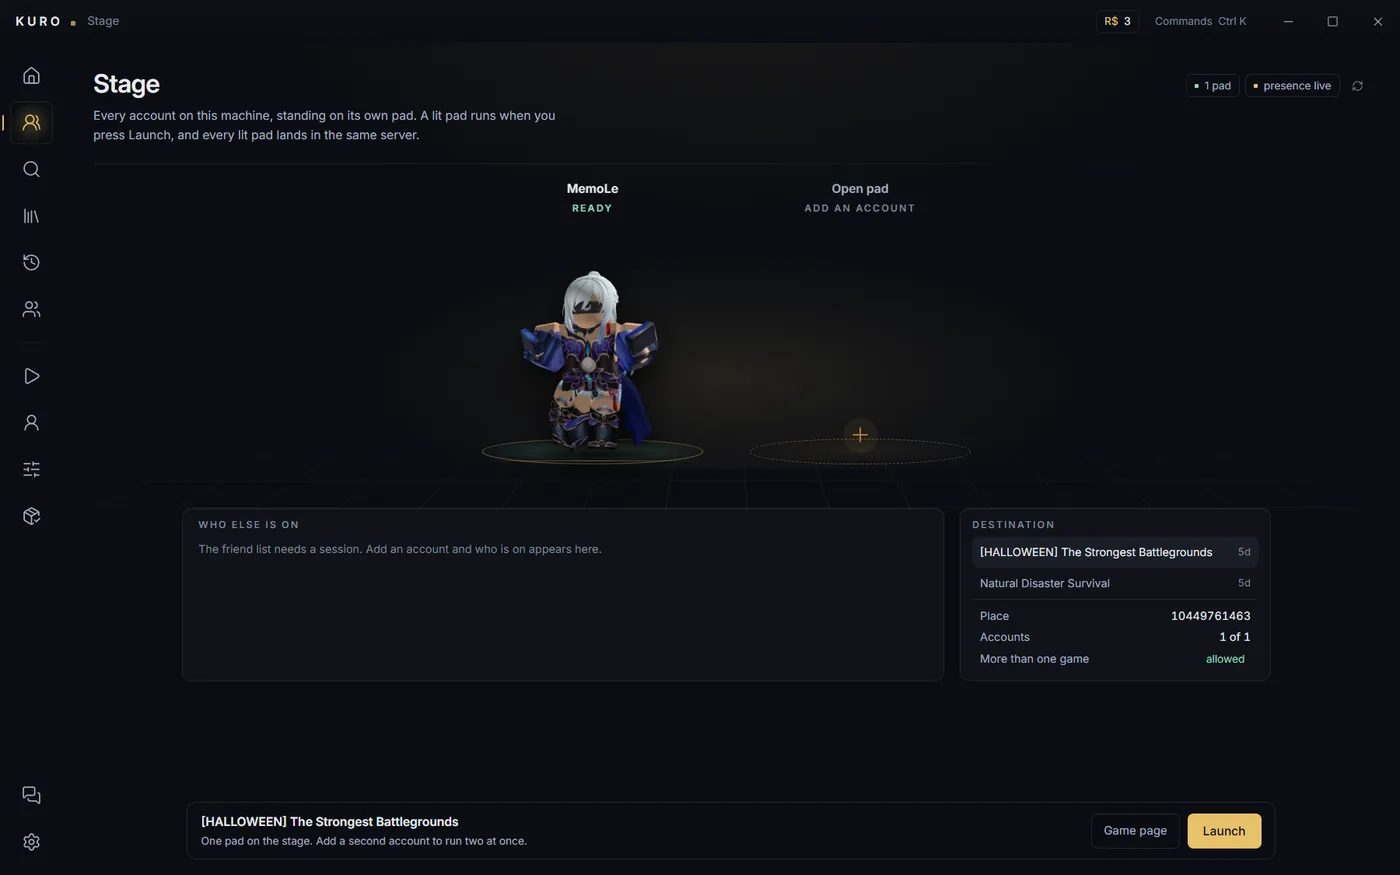
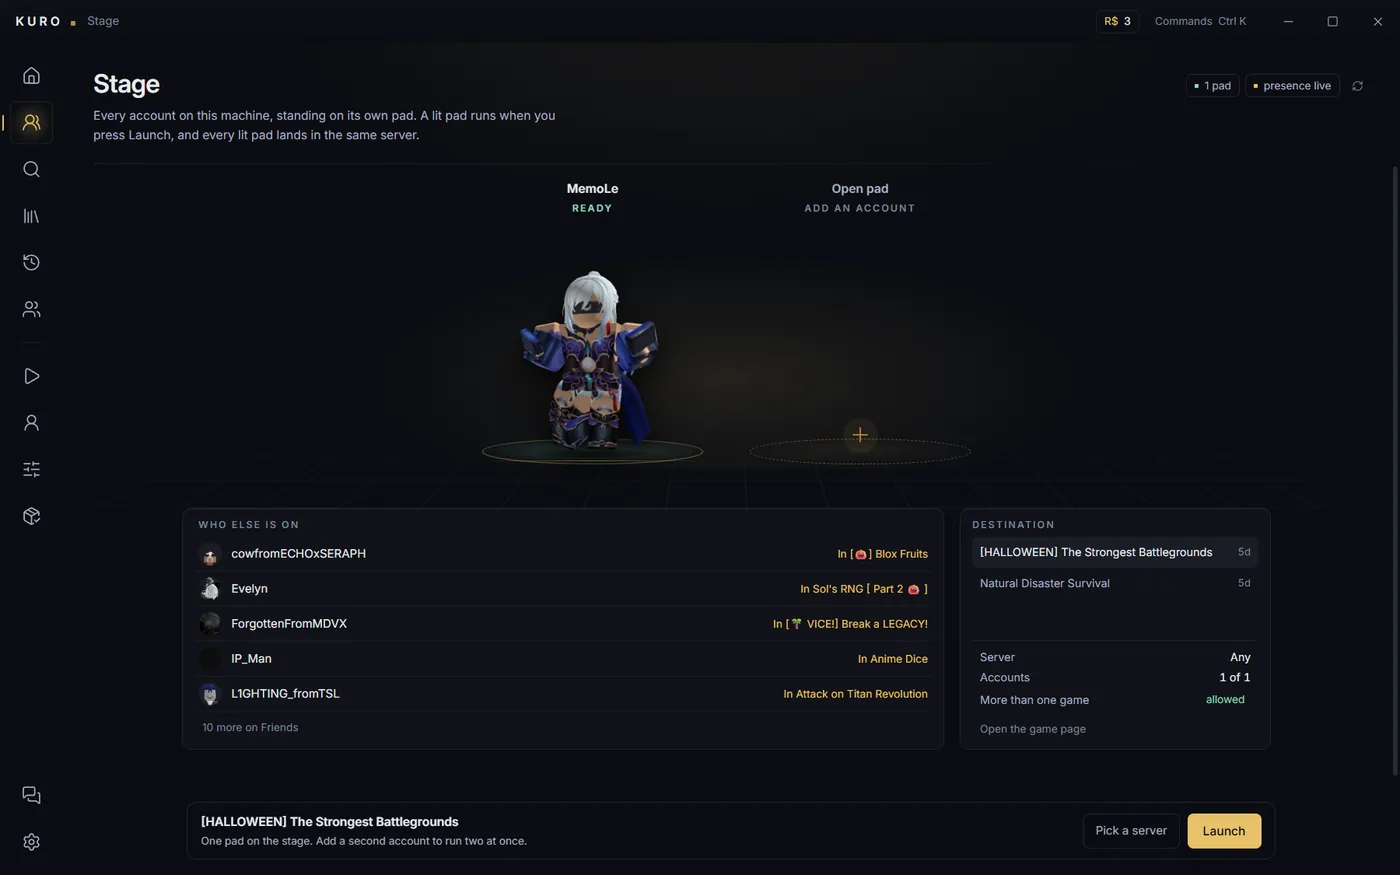
A server can be picked, so the squad has somewhere exact to land
The bar's second control now lists the place's public servers with players,
ping and frames, lowest ping first, and pins one for the launch. The target
becomes `roblox://placeId=...&gameInstanceId=...`, which is the same string the
game page's server rows already hand the launch screen, so every pad lands in
that exact instance instead of a fresh one.

- The list is read through the discovery store the game page uses, so three
  calls a minute is spent once and a second press is free.
- A pin belongs to one place: changing the destination clears it rather than
  handing pads an instance that no longer exists.
- `launch_read` proves the built target without starting anything: mode
  "server", the right place, the right instance.
- The game page door moved into the destination card, so the bar keeps two
  controls: pick a server, and launch.

diff --git a/src/screens/Stage.tsx b/src/screens/Stage.tsx
@@ -6,8 +6,9 @@ import { EmptyState } from "../components/EmptyState";
 import { PageFrame } from "../components/PageFrame";
 import { cn } from "../lib/cn";
 import { api, CommandError, detailOf } from "../lib/ipc";
-import type { StagePad, StagePlace, StageView, Squad } from "../lib/types";
+import type { GameServer, StagePad, StagePlace, StageView, Squad } from "../lib/types";
 import { useReducedMotion } from "../lib/useReducedMotion";
+import { useDiscovery } from "../store/discovery";
 import { useShell } from "../store/shell";
 import { useSocial } from "../store/social";
 
@@ -50,6 +51,13 @@ export function StageScreen() {
   const roster = useSocial((state) => state.roster);
   const loadRoster = useSocial((state) => state.load);
 
+  // The game page reads its server list through this store, and it allows three calls a
+  // minute. Same store means the stage spends that budget once, not twice.
+  const servers = useDiscovery((state) => state.servers);
+  const serversLoading = useDiscovery((state) => state.serversLoading);
+  const serversProblem = useDiscovery((state) => state.serversProblem);
+  const loadServers = useDiscovery((state) => state.loadServers);
+
   const [view, setView] = useState<StageView | null>(null);
   const [places, setPlaces] = useState<StagePlace[]>([]);
   const [destination, setDestination] = useState<StagePlace | null>(null);
@@ -63,6 +71,14 @@ export function StageScreen() {
   const [running, setRunning] = useState(false);
   const [report, setReport] = useState<Squad | null>(null);
   const [refused, setRefused] = useState<string | null>(null);
+
+  /**
+   * The server every pad is sent to, or none. It is kept whole rather than by id so the
+   * ping and the player count travel with the choice and the panel can repeat them
+   * without asking Roblox again.
+   */
+  const [server, setServer] = useState<GameServer | null>(null);
+  const [picking, setPicking] = useState(false);
 
   const multi = settings?.launch.multiInstance ?? false;
   const reduced = useReducedMotion();
@@ -96,6 +112,15 @@ export function StageScreen() {
       setLoading(false);
     }
   };
+
+  useEffect(() => {
+    if (!picking) return;
+    const close = (event: KeyboardEvent) => {
+      if (event.key === "Escape") setPicking(false);
+    };
+    document.addEventListener("keydown", close);
+    return () => document.removeEventListener("keydown", close);
+  }, [picking]);
 
   useEffect(() => {
     void read();
@@ -138,7 +163,11 @@ export function StageScreen() {
     pads.current.style.setProperty("--py", "0");
   };
 
-  const target = destination ? `roblox://placeId=${destination.place}` : null;
+  const target = destination
+    ? server
+      ? `roblox://placeId=${destination.place}&gameInstanceId=${server.id}`
+      : `roblox://placeId=${destination.place}`
+    : null;
   const needsMulti = onStage.length > 1 && !multi;
 
   async function launch() {
@@ -186,11 +215,18 @@ export function StageScreen() {
   // The one floating surface on this page: the bar that hands every pad the same
   // destination. It sits in the frame's footer, so it cannot fall below the fold.
   const bar = (
-    <div className="mx-auto w-full max-w-[1184px] px-8 pt-2 pb-4">
+    <div className="relative mx-auto w-full max-w-[1184px] px-8 pt-2 pb-4">
         <div className="flex items-center justify-between gap-3 rounded-card border border-white/10 px-3.5 py-2.5">
           <div className="min-w-0">
-            <div className="truncate text-[12.5px] font-semibold text-body">
-              {destination ? destination.name : "No destination yet"}
+            <div className="flex items-baseline gap-2">
+              <span className="truncate text-[12.5px] font-semibold text-body">
+                {destination ? destination.name : "No destination yet"}
+              </span>
+              {server ? (
+                <span className="num shrink-0 text-[10.5px] text-[var(--dim)]">
+                  {server.ping > 0 ? `pinned · ${server.ping} ms` : "pinned"}
+                </span>
+              ) : null}
             </div>
             <div
               className={cn(
@@ -220,10 +256,16 @@ export function StageScreen() {
             {destination ? (
               <button
                 type="button"
-                onClick={() => openGame(destination.universe, destination.place)}
+                aria-expanded={picking}
+                onClick={() => {
+                  setPicking((open) => !open);
+                  // Opening is the only thing that spends a call, and the discovery store
+                  // hands back its cache when this place was read already.
+                  void loadServers(destination.place);
+                }}
                 className="ui flex h-9 items-center rounded-control border border-white/10 px-3 text-[12px] text-muted hover:bg-white/5 hover:text-body"
               >
-                Game page
+                {picking ? "Close" : "Pick a server"}
               </button>
             ) : null}
 
@@ -269,6 +311,101 @@ export function StageScreen() {
             )}
           </div>
         </div>
+
+        {picking && destination ? (
+          <>
+            <div className="fixed inset-0 z-10" aria-hidden onClick={() => setPicking(false)} />
+            <div
+              role="dialog"
+              aria-label="Choose a server"
+              className="absolute right-8 bottom-full z-20 mb-2 w-[420px] overflow-hidden rounded-card border border-white/10 bg-panel shadow-2xl"
+            >
+              <div className="flex items-baseline justify-between border-b border-white/8 px-3 py-2">
+                <span className="text-[10px] font-semibold tracking-[0.16em] text-[var(--dim)]">
+                  SERVERS
+                </span>
+                <span className="text-[10.5px] text-[var(--dim)]">players · server · ping, lowest first</span>
+              </div>
+
+              <div className="max-h-[286px] overflow-y-auto p-1.5">
+                <button
+                  type="button"
+                  aria-pressed={!server}
+                  onClick={() => {
+                    setServer(null);
+                    setPicking(false);
+                    setReport(null);
+                  }}
+                  className={cn(
+                    "ui flex h-9 w-full items-center justify-between rounded-control px-2 text-left text-[12px]",
+                    !server ? "bg-raised text-body" : "text-muted hover:bg-white/5 hover:text-body",
+                  )}
+                >
+                  <span>Any server</span>
+                  <span className="num text-[11px] text-[var(--dim)]">no pin</span>
+                </button>
+
+                {servers?.place === destination.place
+                  ? [...servers.list]
+                      .sort((left, right) => {
+                        // An unpublished ping is not the fastest server.
+                        const a = left.ping > 0 ? left.ping : Number.MAX_SAFE_INTEGER;
+                        const b = right.ping > 0 ? right.ping : Number.MAX_SAFE_INTEGER;
+                        return a - b;
+                      })
+                      .slice(0, 12)
+                      .map((row) => (
+                        <button
+                          key={row.id}
+                          type="button"
+                          aria-pressed={server?.id === row.id}
+                          onClick={() => {
+                            setServer(row);
+                            setPicking(false);
+                            setReport(null);
+                          }}
+                          className={cn(
+                            "ui flex h-9 w-full items-center justify-between gap-3 rounded-control px-2 text-left text-[12px]",
+                            server?.id === row.id
+                              ? "bg-raised text-body"
+                              : "text-muted hover:bg-white/5 hover:text-body",
+                          )}
+                        >
+                          <span className="num shrink-0 text-[11.5px]">
+                            {row.playing}/{row.maxPlayers}
+                          </span>
+                          <span className="min-w-0 flex-1 truncate text-[10.5px] text-[var(--dim)]">
+                            {row.id.slice(0, 8)}
+                          </span>
+                          <span className="num shrink-0 text-[11px] text-body">
+                            {row.ping > 0 ? `${row.ping} ms` : "no ping"}
+                            {row.fps > 0 ? ` · ${Math.round(row.fps)} fps` : ""}
+                          </span>
+                        </button>
+                      ))
+                  : null}
+
+                {serversLoading ? (
+                  <p className="px-2 py-3 text-[11.5px] text-[var(--dim)]">Reading the public servers.</p>
+                ) : null}
+
+                {serversProblem ? (
+                  <p className="px-2 py-3 text-[11.5px] text-danger">{serversProblem.message}</p>
+                ) : null}
+
+                {!serversLoading &&
+                !serversProblem &&
+                servers?.place === destination.place &&
+                servers.list.length === 0 ? (
+                  <p className="px-2 py-3 text-[11.5px] leading-[1.55] text-[var(--dim)]">
+                    Roblox lists no public servers for this place. A game can hide them, and a
+                    private server never appears here.
+                  </p>
+                ) : null}
+              </div>
+            </div>
+          </>
+        ) : null}
       </div>
   );
 
@@ -471,7 +608,11 @@ export function StageScreen() {
                         aria-pressed={chosen}
                         onClick={() => {
                           setDestination(place);
+                          // A server id belongs to one place. Keeping it across a change
+                          // would hand every pad an instance that no longer exists.
+                          setServer(null);
                           setReport(null);
+                          setPicking(false);
                         }}
                         title={place.name}
                         className={cn(
@@ -491,9 +632,13 @@ export function StageScreen() {
                 </p>
               )}
 
-              <div className="mt-auto flex items-center justify-between border-t border-white/8 px-2 pt-2 pb-1 text-[11.5px]">
-                <span className="text-muted">Place</span>
-                <span className="num text-body">{destination ? destination.place : "none"}</span>
+              <div className="mt-auto flex items-center justify-between gap-2 border-t border-white/8 px-2 pt-2 pb-1 text-[11.5px]">
+                <span className="shrink-0 text-muted">Server</span>
+                <span className="num min-w-0 truncate text-body">
+                  {server
+                    ? `${server.id.slice(0, 8)} · ${server.ping > 0 ? `${server.ping} ms` : "no ping"}`
+                    : "Any"}
+                </span>
               </div>
               <div className="flex items-center justify-between px-2 pb-1 text-[11.5px]">
                 <span className="text-muted">Accounts</span>
@@ -515,6 +660,15 @@ export function StageScreen() {
                   {multi ? "allowed" : "off"}
                 </button>
               </div>
+              {destination ? (
+                <button
+                  type="button"
+                  onClick={() => openGame(destination.universe, destination.place)}
+                  className="ui mt-1 flex h-6 items-center px-2 text-[11px] text-[var(--dim)] hover:text-body"
+                >
+                  Open the game page
+                </button>
+              ) : null}
             </div>
           </div>
 
